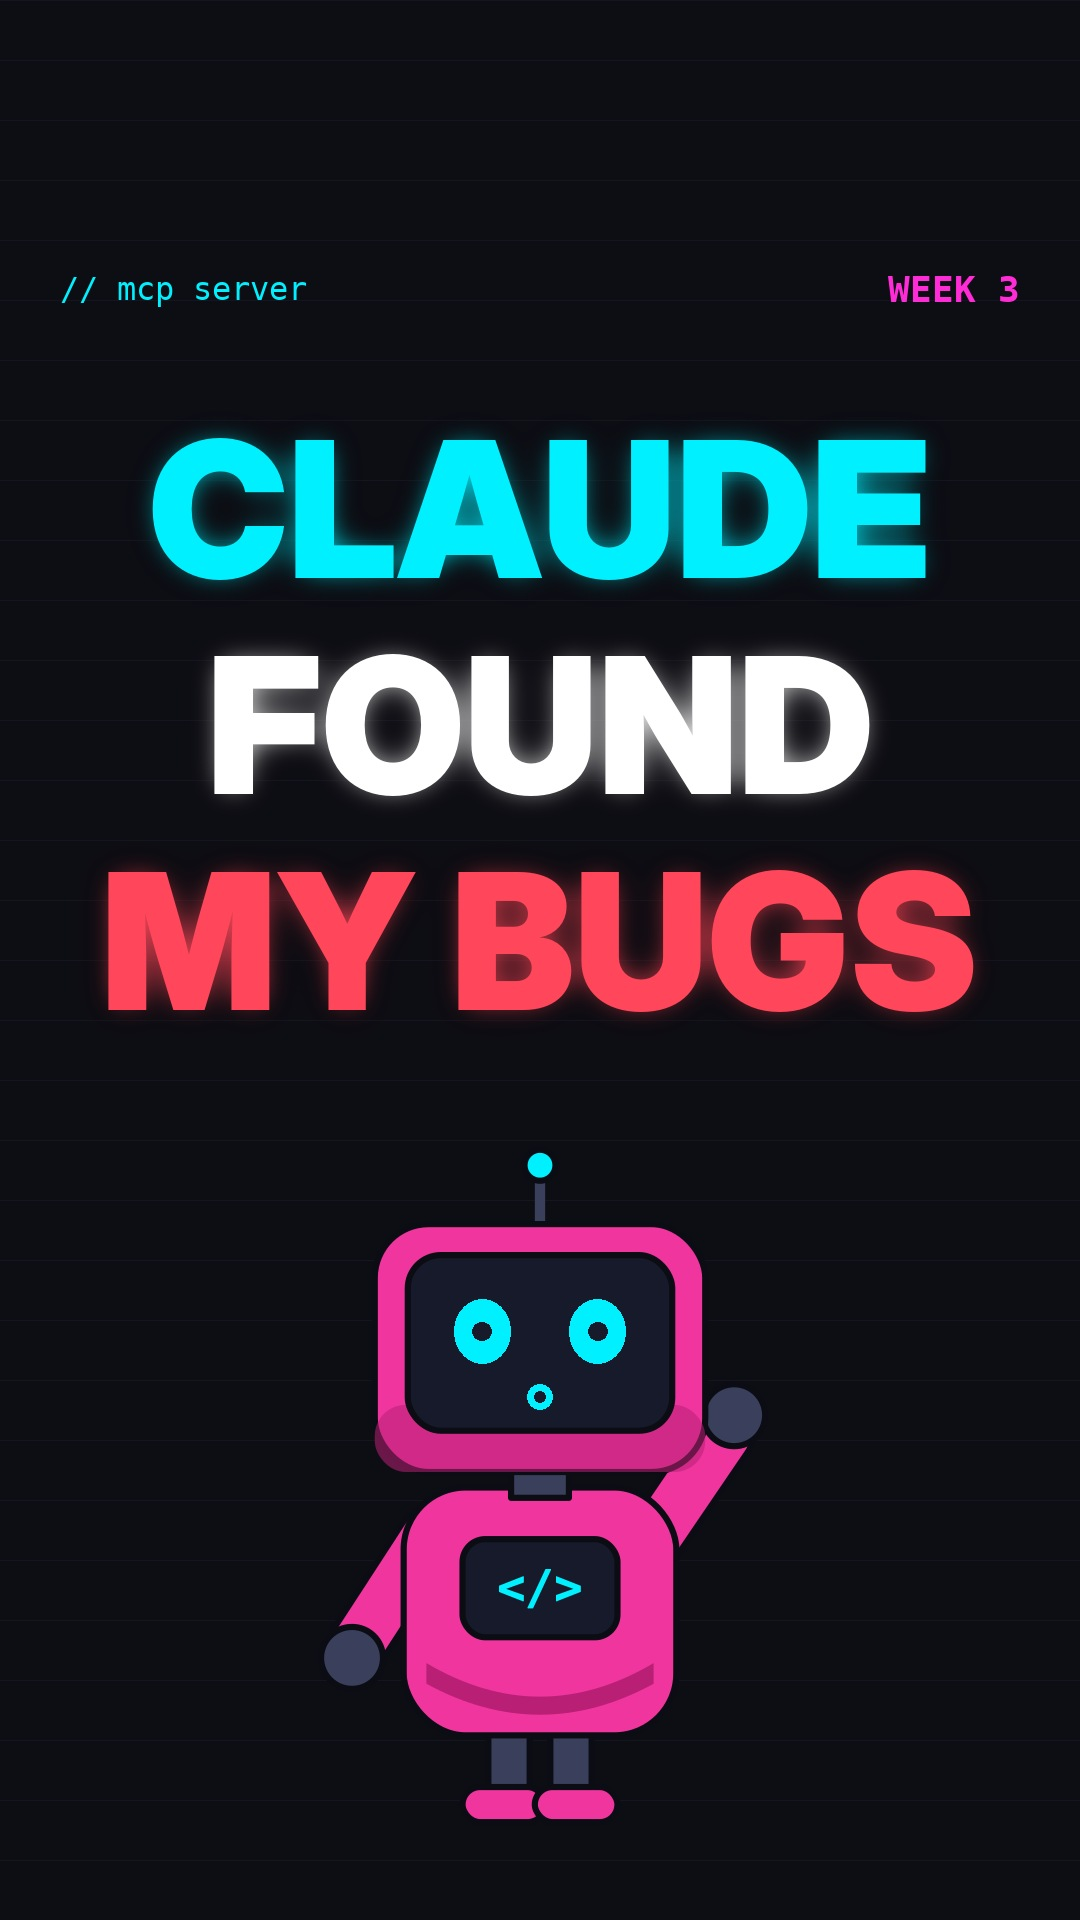
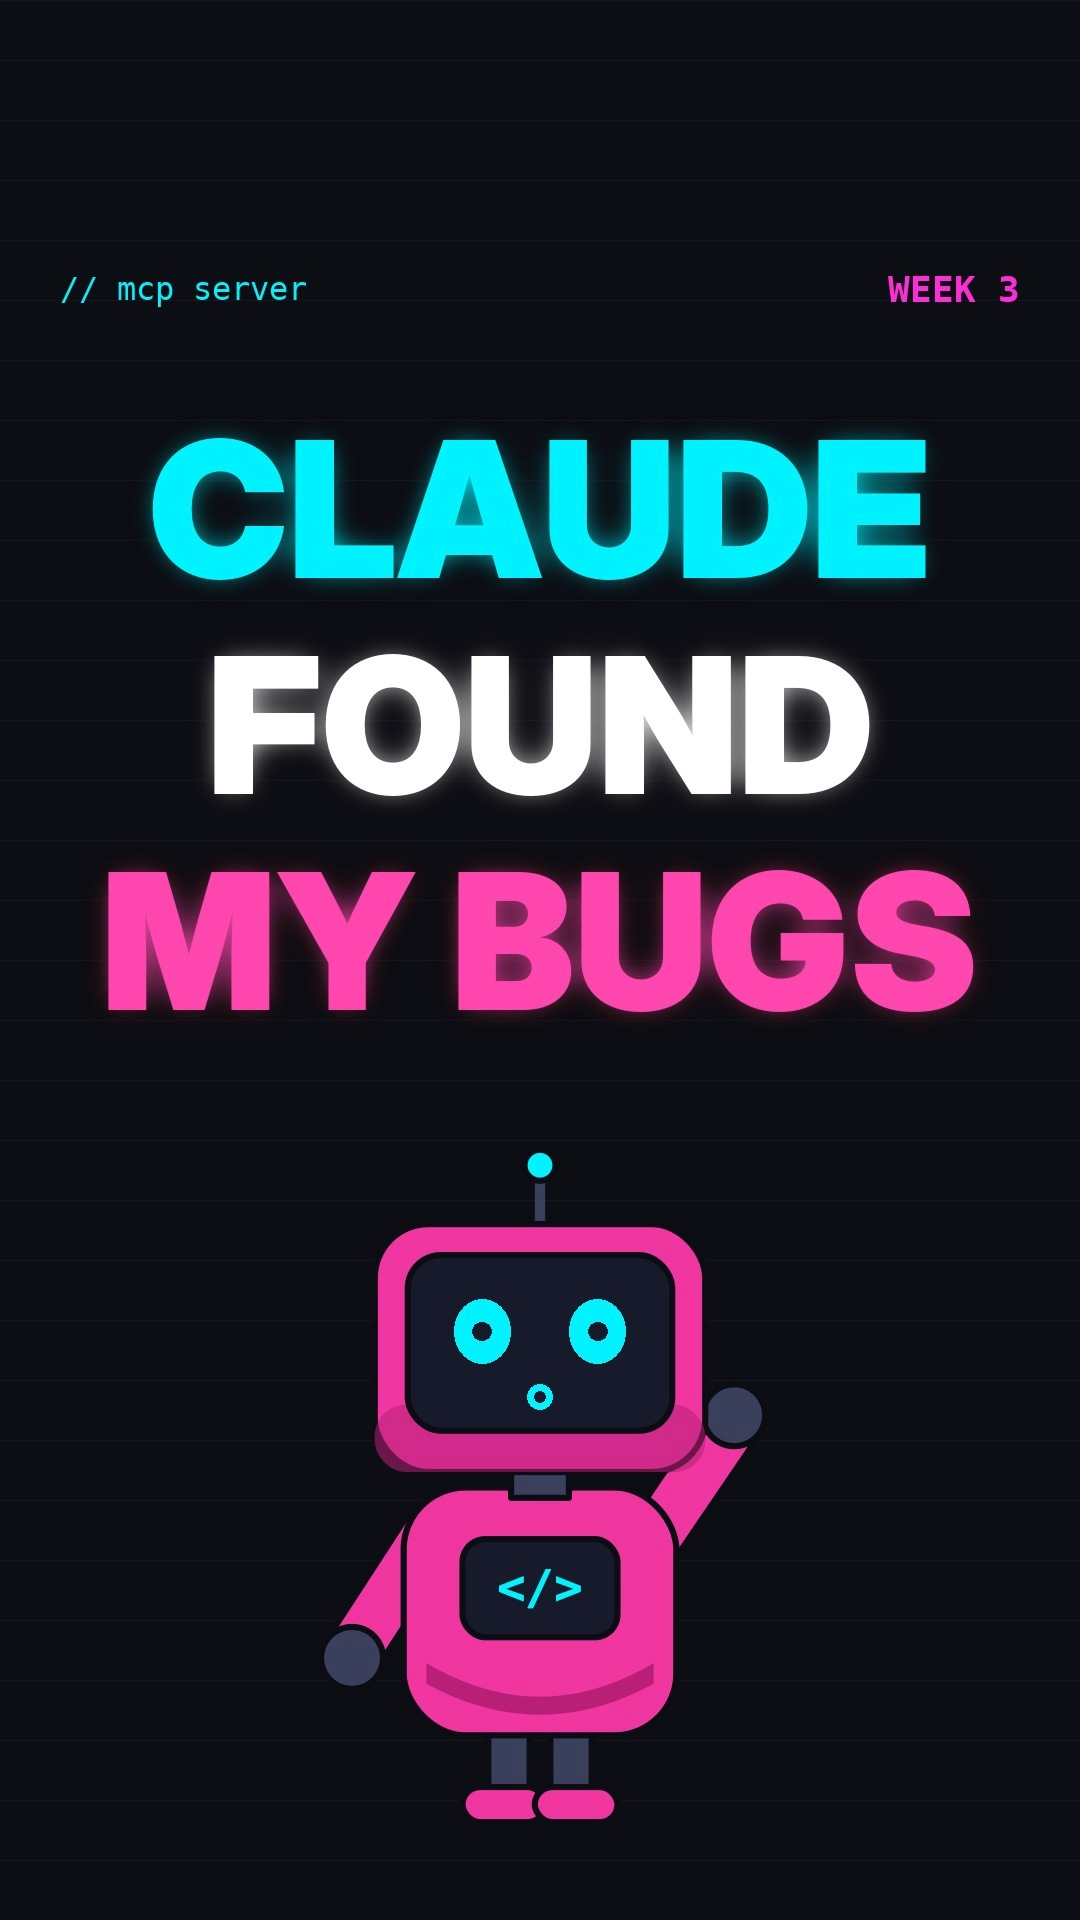
Instagram covers: problem words in brand pink, not red
Claude-Session: https://claude.ai/code/session_01X8TRrt6XctmJizUC9jgZBK

Changed region(s): [[0.3972, 0.4375, 0.9167, 0.5312], [0.0917, 0.4375, 0.3972, 0.5312]]

diff --git a/brand/instagram/build_profile_assets.py b/brand/instagram/build_profile_assets.py
@@ -5,7 +5,7 @@ import io, os, re, cairosvg
 from PIL import Image, ImageDraw, ImageFont, ImageFilter
 HERE=os.path.dirname(os.path.abspath(__file__))
 W,H=1080,1920
-CY=(0,240,255); PK=(255,43,214); GR=(57,255,136); RD=(255,70,90); WH=(255,255,255); BG=(13,13,20); YL=(255,214,0)
+CY=(0,240,255); PK=(255,43,214); GR=(57,255,136); RD=(240,53,158)  # brand pink for "problem" words (was red); WH=(255,255,255); BG=(13,13,20); YL=(255,214,0)
 FONTS=os.path.expanduser("~/Library/Fonts")
 FI=lambda s: ImageFont.truetype(f"{FONTS}/InterDisplay-Black.otf",s)
 FM=lambda s: ImageFont.truetype(f"{FONTS}/DejaVuSansMono.ttf",s)
